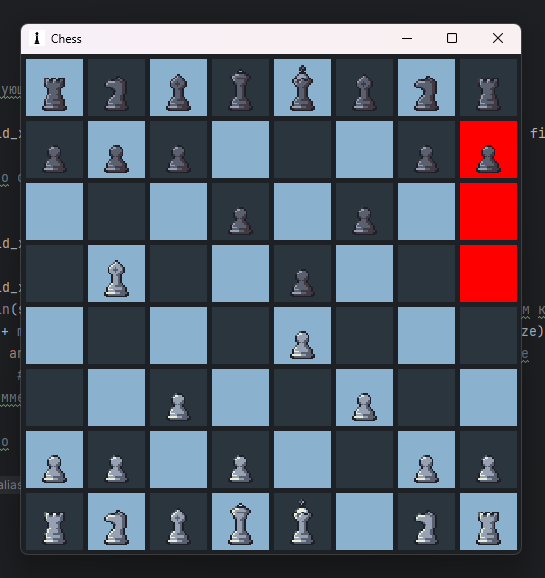
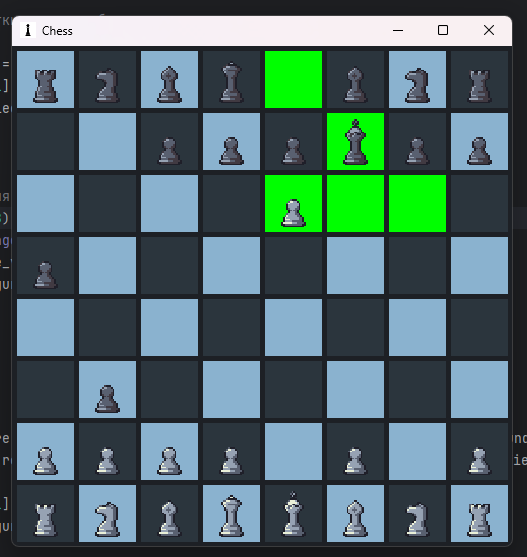
ou can go only on the place, which will save the king.

Changed region(s): [[0.0, 0.0, 1.0, 0.9767], [0.425, 0.3662, 0.4554, 0.4273]]

diff --git a/chess.py b/chess.py
@@ -10,8 +10,8 @@ pygame.init()
 sc = pygame.display.set_mode((500, 500), flags=pygame.RESIZABLE)
 
 
-# Функция для получения абсолютного пути к файлам (учитывает как режим разработки, так и работу через PyInstaller)
 def resource_path(relative_path):
+    """Функция для получения абсолютного пути к файлам (учитывает как режим разработки, так и работу через PyInstaller)"""
     base_path = getattr(sys, '_MEIPASS', os.path.dirname(os.path.abspath(__file__)))  # Проверка, что мы не в PyInstaller
     return os.path.join(base_path, relative_path)
 
@@ -166,7 +166,7 @@ def possible_moves(figure):
 
                 # Проверка на допустимость перемещения по вертикали
                 if 0 <= new_x < 8 and 0 <= new_y < 8:
-                    if field[new_y][new_x][0] == '.':
+                    if abs(pos[1]) == 1 and field[new_y][new_x][0] == '.' or abs(pos[1]) == 2 and field[y + pos[1] // 2][x + pos[0] // 2][0] == '.' and field[new_y][new_x][0] == '.':
                         highlighted.append([new_x, new_y])
 
                 # Проверка на взятие пешки по диагонали
@@ -188,7 +188,10 @@ def is_under_attack():
     """Функция для проверки, под атакой ли король"""
     king_row, king_col = king  # Получаем текущие координаты короля
 
+    # Направления для ферзя, ладьи и слона
     directions = [(-1, 0), (1, 0), (0, -1), (0, 1), (-1, -1), (-1, 1), (1, -1), (1, 1)]
+
+    # Проверка угрозы от ферзя, слона и ладьи
     for direction in directions:
         row, col = king_row, king_col
         while 0 <= row < 8 and 0 <= col < 8:
@@ -197,12 +200,15 @@ def is_under_attack():
             if 0 <= row < 8 and 0 <= col < 8:
                 piece = field[col][row]
                 if piece != '.':
-                    if piece == f'{enemy_turn}_Queen' or \
-                            (piece == f'{enemy_turn}_Rook' and direction in [(-1, 0), (1, 0), (0, -1), (0, 1)]) or \
-                            (piece == f'{enemy_turn}_Bishop' and direction in [(-1, -1), (-1, 1), (1, -1), (1, 1)]):
+                    if piece == f'{enemy_turn}_Queen':  # Ферзь
                         return True
-                    break
+                    if piece == f'{enemy_turn}_Rook' and direction in [(-1, 0), (1, 0), (0, -1), (0, 1)]:  # Ладья
+                        return True
+                    if piece == f'{enemy_turn}_Bishop' and direction in [(-1, -1), (-1, 1), (1, -1), (1, 1)]:  # Слон
+                        return True
+                    break  # Если встретили другую фигуру, выходим из цикла
 
+    # Проверка угрозы от коня
     knight_moves = [(-2, -1), (-1, -2), (1, -2), (2, -1), (2, 1), (1, 2), (-1, 2), (-2, 1)]
     for move in knight_moves:
         row, col = king_row + move[0], king_col + move[1]
@@ -210,7 +216,8 @@ def is_under_attack():
             if field[col][row] == f'{enemy_turn}_Knight':
                 return True
 
-    pawn_directions = [(-1, -1), (-1, 1)] if enemy_turn == 'B' else [(1, -1), (1, 1)]
+    # Проверка угрозы от пешки
+    pawn_directions = [(-1, -1), (1, -1)] if turn == 'W' else [(-1, 1), (1, 1)]  # В зависимости от цвета пешки
     for direction in pawn_directions:
         row, col = king_row + direction[0], king_col + direction[1]
         if 0 <= row < 8 and 0 <= col < 8:
@@ -305,7 +312,7 @@ while True:
         B_Bishop = pygame.transform.scale(pygame.image.load(resource_path(path + 'B_Bishop.png')), ((min(size) // 8 - space) // 2, min(size) // 8 - space))
         B_Pawn = pygame.transform.scale(pygame.image.load(resource_path(path + 'B_Pawn.png')), ((min(size) // 8 - space) // 2, min(size) // 8 - space))
         White_won = pygame.transform.scale(pygame.image.load(resource_path('images/white_won.png')), (min(size), min(size)))
-        Black_won = pygame.transform.scale(pygame.image.load(resource_path('images/white_won.png')), (min(size), min(size)))
+        Black_won = pygame.transform.scale(pygame.image.load(resource_path('images/black_won.png')), (min(size), min(size)))
         Close = pygame.transform.scale(pygame.image.load(resource_path('images/close.png')), (min(size) // 15, min(size) // 15))
 
         # Печатаем путь к изображению одной из фигур для отладки
@@ -329,26 +336,6 @@ while True:
 
             # Проверяем, была ли нажата мышь на клетке с фигурой текущего игрока
             if rect.collidepoint(mouse) and pygame.mouse.get_pressed()[0] and field[y][x][0] == turn and not game_is_over:
-                king = [0, 0]
-
-                # Находим позицию короля
-                for figure_x in range(8):
-                    for figure_y in range(8):
-                        if field[figure_y][figure_x] == turn + '_' + 'King':
-                            king = [figure_x, figure_y]
-
-                check = False
-
-                # Проверяем, находится ли король под атакой
-                for figure_x in range(8):
-                    for figure_y in range(8):
-                        if field[figure_y][figure_x][0] != turn and field[figure_y][figure_x][0] != '.':
-                            if turn == 'W':
-                                enemy_turn = 'B'
-                            else:
-                                enemy_turn = 'W'
-                            if is_under_attack():
-                                check = True
 
                 # Если выбрана фигура короля, проверяем возможность рокировки
                 if selected_figure[0][2:] == 'King' and field[y][x][2:] == 'Rook' and [x, y] in highlighted:
@@ -382,17 +369,35 @@ while True:
             # Отображаем возможные ходы фигуры
             for i in highlighted:
                 if (i[0], i[1]) == (x, y):
-                    # Если король под атакой, выделяем клетку красным
-                    if not check:
-                        color = 'green'  # Зеленая клетка для возможного хода
-                    else:
-                        color = 'red'  # Красная клетка, если ход опасен
+                    color = 'green'  # свободная клетка зелёная
 
-                    # Рисуем выделение клетки
-                    rect = pygame.draw.rect(sc, color, (field_x + min(size) // 8 * i[0] + space, field_y + min(size) // 8 * i[1] + space, min(size) // 8 - space, min(size) // 8 - space))
+                    # Рисуем выделение клетки если они безопасные
+                    rect = ''
+                    figure_under_highlight = field[i[1]][i[0]]
+                    field[selected_figure[1][1]][selected_figure[1][0]] = figure_under_highlight
+                    field[i[1]][i[0]] = selected_figure[0]
+
+                    king = [0, 0]
+
+                    # Находим позицию короля
+                    for figure_x in range(8):
+                        for figure_y in range(8):
+                            if field[figure_y][figure_x] == turn + '_' + 'King':
+                                king = [figure_x, figure_y]
+
+                    if turn == 'W':
+                        enemy_turn = 'B'
+                    else:
+                        enemy_turn = 'W'
+
+                    if field[selected_figure[1][1]][selected_figure[1][0]] == field[i[1]][i[0]] or not is_under_attack():
+                        rect = pygame.draw.rect(sc, color, (field_x + min(size) // 8 * i[0] + space, field_y + min(size) // 8 * i[1] + space, min(size) // 8 - space, min(size) // 8 - space))
+
+                    field[selected_figure[1][1]][selected_figure[1][0]] = selected_figure[0]
+                    field[i[1]][i[0]] = figure_under_highlight
 
                     # Если кликнули на клетку с возможным ходом, выполняем ход
-                    if rect.collidepoint(mouse) and pygame.mouse.get_pressed()[0] and field[i[1]][i[0]][0] != selected_figure[0][0] and not game_is_over:
+                    if rect != '' and rect.collidepoint(mouse) and pygame.mouse.get_pressed()[0] and field[i[1]][i[0]][0] != selected_figure[0][0] and not game_is_over:
                         print(selected_figure[0], i[0], i[1])
                         try:
                             # Если на клетке оказался король, завершаем игру
@@ -526,9 +531,9 @@ while True:
             sc.blit(White_won, (field_x, field_y))
         else:
             sc.blit(Black_won, (field_x, field_y))
-        sc.blit(Close, (field_x + min(size) // 16 * 12.5, field_y + min(size) // 16 * 2.5))  # Выводим крести для закрытия окна с результатом
+        sc.blit(Close, (field_x + min(size) // 16 * 12.5, field_y + min(size) // 16 * 2.5))  # Выводим крестик для закрытия окна с результатом
         close_rect = pygame.Rect(field_x + min(size) // 16 * 12.5, field_y + min(size) // 16 * 2.5, min(size) // 15, min(size) // 15)
-        if close_rect.collidepoint(mouse) and pygame.mouse.get_pressed()[0]:  # проверяем крести на нажатие
+        if close_rect.collidepoint(mouse) and pygame.mouse.get_pressed()[0]:  # проверяем крестик на нажатие
             winning_window_opened = False  # Закрываем окно с результатами
             size = (0, 0)  # изменяем разммер для обновления поля
 

diff --git a/README.md b/README.md
@@ -25,7 +25,7 @@
 </ul>
 
 <img src="images/screenshots/1.png" />
-<h4>Possible moves turn red, which indicates the danger of the king.</h4>
+<h4>You can go only on the place, which will save the king.</h4>
 <img src="images/screenshots/2.png" />
 <h4>Castling is possible.</h4>
 <img src="images/screenshots/3.png" />
